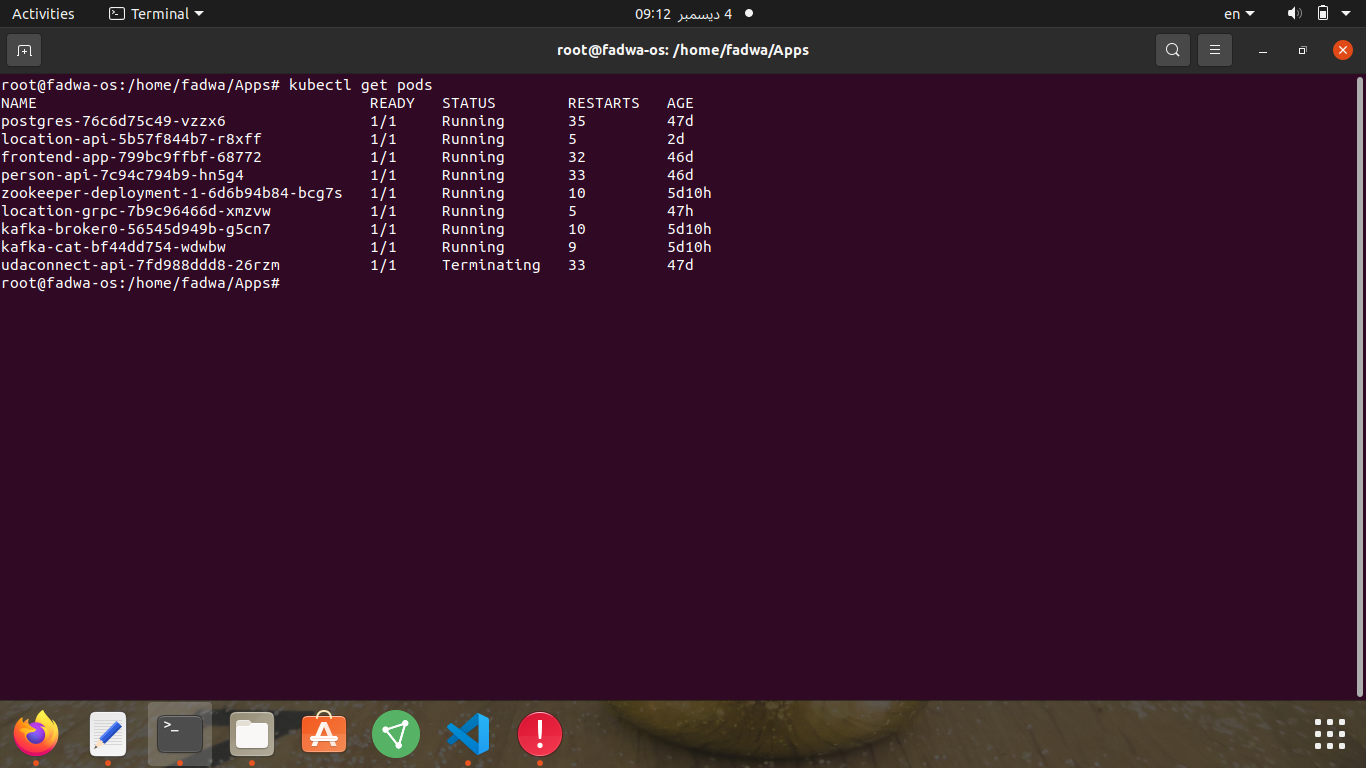
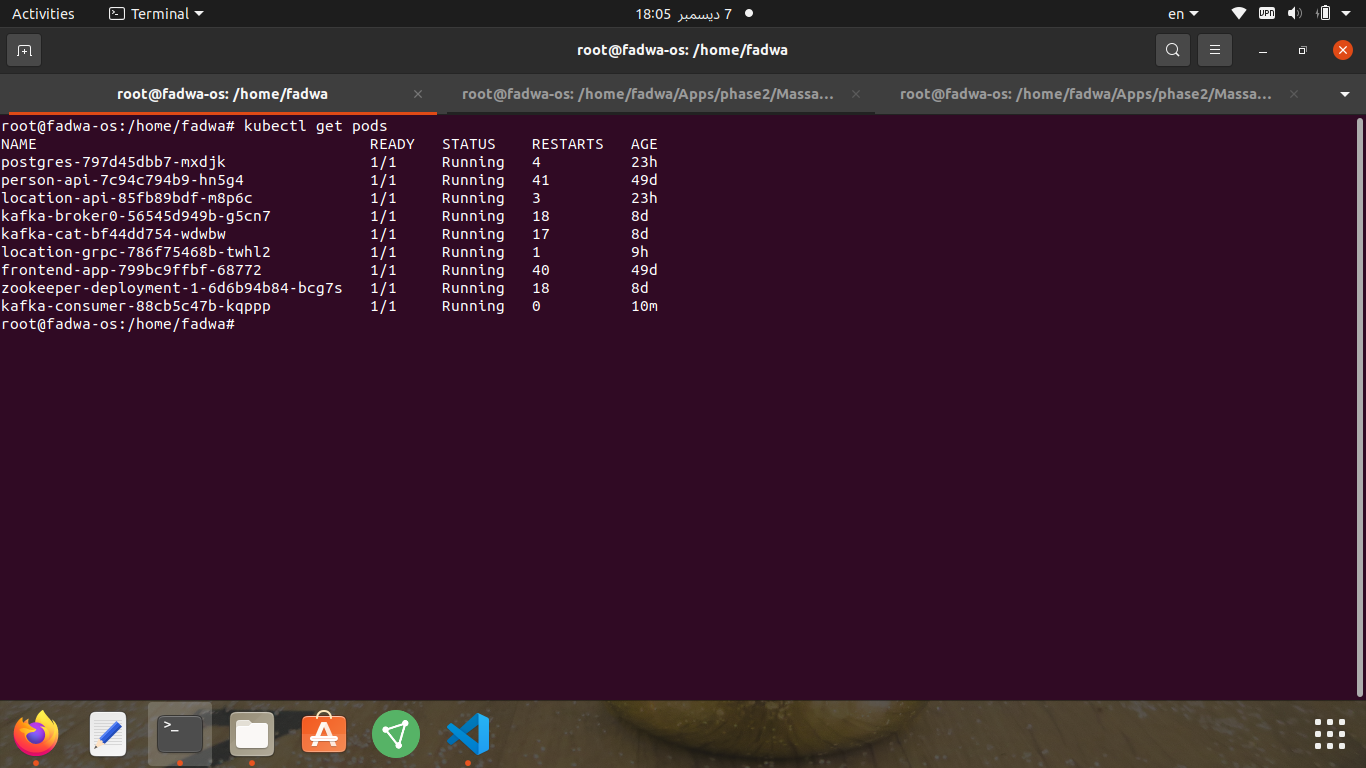
add standalone consumer

diff --git a/modules/kafka-consumer /location_pb2.py b/modules/kafka-consumer /location_pb2.py
@@ -1,0 +1,120 @@
+# -*- coding: utf-8 -*-
+# Generated by the protocol buffer compiler.  DO NOT EDIT!
+# source: location.proto
+"""Generated protocol buffer code."""
+from google.protobuf import descriptor as _descriptor
+from google.protobuf import message as _message
+from google.protobuf import reflection as _reflection
+from google.protobuf import symbol_database as _symbol_database
+# @@protoc_insertion_point(imports)
+
+_sym_db = _symbol_database.Default()
+
+
+from google.protobuf import timestamp_pb2 as google_dot_protobuf_dot_timestamp__pb2
+
+
+DESCRIPTOR = _descriptor.FileDescriptor(
+  name='location.proto',
+  package='',
+  syntax='proto3',
+  serialized_options=None,
+  create_key=_descriptor._internal_create_key,
+  serialized_pb=b'\n\x0elocation.proto\x1a\x1fgoogle/protobuf/timestamp.proto\"|\n\x0fLocationMessage\x12\x11\n\tperson_id\x18\x02 \x01(\x05\x12\x11\n\tlongitude\x18\x03 \x01(\x01\x12\x10\n\x08latitude\x18\x04 \x01(\x01\x12\x31\n\rcreation_time\x18\x05 \x01(\x0b\x32\x1a.google.protobuf.Timestamp2?\n\x0fLocationService\x12,\n\x06\x43reate\x12\x10.LocationMessage\x1a\x10.LocationMessageb\x06proto3'
+  ,
+  dependencies=[google_dot_protobuf_dot_timestamp__pb2.DESCRIPTOR,])
+
+
+
+
+_LOCATIONMESSAGE = _descriptor.Descriptor(
+  name='LocationMessage',
+  full_name='LocationMessage',
+  filename=None,
+  file=DESCRIPTOR,
+  containing_type=None,
+  create_key=_descriptor._internal_create_key,
+  fields=[
+    _descriptor.FieldDescriptor(
+      name='person_id', full_name='LocationMessage.person_id', index=0,
+      number=2, type=5, cpp_type=1, label=1,
+      has_default_value=False, default_value=0,
+      message_type=None, enum_type=None, containing_type=None,
+      is_extension=False, extension_scope=None,
+      serialized_options=None, file=DESCRIPTOR,  create_key=_descriptor._internal_create_key),
+    _descriptor.FieldDescriptor(
+      name='longitude', full_name='LocationMessage.longitude', index=1,
+      number=3, type=1, cpp_type=5, label=1,
+      has_default_value=False, default_value=float(0),
+      message_type=None, enum_type=None, containing_type=None,
+      is_extension=False, extension_scope=None,
+      serialized_options=None, file=DESCRIPTOR,  create_key=_descriptor._internal_create_key),
+    _descriptor.FieldDescriptor(
+      name='latitude', full_name='LocationMessage.latitude', index=2,
+      number=4, type=1, cpp_type=5, label=1,
+      has_default_value=False, default_value=float(0),
+      message_type=None, enum_type=None, containing_type=None,
+      is_extension=False, extension_scope=None,
+      serialized_options=None, file=DESCRIPTOR,  create_key=_descriptor._internal_create_key),
+    _descriptor.FieldDescriptor(
+      name='creation_time', full_name='LocationMessage.creation_time', index=3,
+      number=5, type=11, cpp_type=10, label=1,
+      has_default_value=False, default_value=None,
+      message_type=None, enum_type=None, containing_type=None,
+      is_extension=False, extension_scope=None,
+      serialized_options=None, file=DESCRIPTOR,  create_key=_descriptor._internal_create_key),
+  ],
+  extensions=[
+  ],
+  nested_types=[],
+  enum_types=[
+  ],
+  serialized_options=None,
+  is_extendable=False,
+  syntax='proto3',
+  extension_ranges=[],
+  oneofs=[
+  ],
+  serialized_start=51,
+  serialized_end=175,
+)
+
+_LOCATIONMESSAGE.fields_by_name['creation_time'].message_type = google_dot_protobuf_dot_timestamp__pb2._TIMESTAMP
+DESCRIPTOR.message_types_by_name['LocationMessage'] = _LOCATIONMESSAGE
+_sym_db.RegisterFileDescriptor(DESCRIPTOR)
+
+LocationMessage = _reflection.GeneratedProtocolMessageType('LocationMessage', (_message.Message,), {
+  'DESCRIPTOR' : _LOCATIONMESSAGE,
+  '__module__' : 'location_pb2'
+  # @@protoc_insertion_point(class_scope:LocationMessage)
+  })
+_sym_db.RegisterMessage(LocationMessage)
+
+
+
+_LOCATIONSERVICE = _descriptor.ServiceDescriptor(
+  name='LocationService',
+  full_name='LocationService',
+  file=DESCRIPTOR,
+  index=0,
+  serialized_options=None,
+  create_key=_descriptor._internal_create_key,
+  serialized_start=177,
+  serialized_end=240,
+  methods=[
+  _descriptor.MethodDescriptor(
+    name='Create',
+    full_name='LocationService.Create',
+    index=0,
+    containing_service=None,
+    input_type=_LOCATIONMESSAGE,
+    output_type=_LOCATIONMESSAGE,
+    serialized_options=None,
+    create_key=_descriptor._internal_create_key,
+  ),
+])
+_sym_db.RegisterServiceDescriptor(_LOCATIONSERVICE)
+
+DESCRIPTOR.services_by_name['LocationService'] = _LOCATIONSERVICE
+
+# @@protoc_insertion_point(module_scope)

diff --git a/modules/kafka-consumer /location_pb2_grpc.py b/modules/kafka-consumer /location_pb2_grpc.py
@@ -1,0 +1,66 @@
+# Generated by the gRPC Python protocol compiler plugin. DO NOT EDIT!
+"""Client and server classes corresponding to protobuf-defined services."""
+import grpc
+
+import location_pb2 as location__pb2
+
+
+class LocationServiceStub(object):
+    """Missing associated documentation comment in .proto file."""
+
+    def __init__(self, channel):
+        """Constructor.
+
+        Args:
+            channel: A grpc.Channel.
+        """
+        self.Create = channel.unary_unary(
+                '/LocationService/Create',
+                request_serializer=location__pb2.LocationMessage.SerializeToString,
+                response_deserializer=location__pb2.LocationMessage.FromString,
+                )
+
+
+class LocationServiceServicer(object):
+    """Missing associated documentation comment in .proto file."""
+
+    def Create(self, request, context):
+        """Missing associated documentation comment in .proto file."""
+        context.set_code(grpc.StatusCode.UNIMPLEMENTED)
+        context.set_details('Method not implemented!')
+        raise NotImplementedError('Method not implemented!')
+
+
+def add_LocationServiceServicer_to_server(servicer, server):
+    rpc_method_handlers = {
+            'Create': grpc.unary_unary_rpc_method_handler(
+                    servicer.Create,
+                    request_deserializer=location__pb2.LocationMessage.FromString,
+                    response_serializer=location__pb2.LocationMessage.SerializeToString,
+            ),
+    }
+    generic_handler = grpc.method_handlers_generic_handler(
+            'LocationService', rpc_method_handlers)
+    server.add_generic_rpc_handlers((generic_handler,))
+
+
+ # This class is part of an EXPERIMENTAL API.
+class LocationService(object):
+    """Missing associated documentation comment in .proto file."""
+
+    @staticmethod
+    def Create(request,
+            target,
+            options=(),
+            channel_credentials=None,
+            call_credentials=None,
+            insecure=False,
+            compression=None,
+            wait_for_ready=None,
+            timeout=None,
+            metadata=None):
+        return grpc.experimental.unary_unary(request, target, '/LocationService/Create',
+            location__pb2.LocationMessage.SerializeToString,
+            location__pb2.LocationMessage.FromString,
+            options, channel_credentials,
+            insecure, call_credentials, compression, wait_for_ready, timeout, metadata)

diff --git a/modules/kafka-consumer /server.py b/modules/kafka-consumer /server.py
@@ -1,0 +1,62 @@
+
+import logging
+import json
+
+from datetime import datetime
+from concurrent import futures
+from kafka import KafkaConsumer
+from google.protobuf.json_format import Parse
+
+
+import grpc
+import urllib3
+import location_pb2
+import location_pb2_grpc
+
+from google.protobuf.timestamp_pb2 import Timestamp
+
+
+class LocationServicer(location_pb2_grpc.LocationServiceServicer):
+    def Create(self, location, context):
+        logging.info("create-location-grpc")
+
+        # use urllib3 to send new location to location service to save it into database
+        http = urllib3.PoolManager()
+        url = 'http://location-api:5000/api/locations'
+
+        # extract dateTime from timestamp 
+        timestamp : Timestamp = location.creation_time
+        creation_time = datetime.fromtimestamp(timestamp.seconds + timestamp.nanos/1e9)
+
+        request_payload = {
+            "person_id": location.person_id,
+            "longitude": str(location.longitude),
+            "latitude": str(location.longitude),
+            "creation_time": str(creation_time)
+            }
+
+        logging.info(f"request {request_payload}")
+
+        req = http.request('POST', url, body=json.dumps(request_payload), headers={'Content-Type': 'application/json'})
+        logging.info(f"request  : {req.data}")
+
+        responce = {
+            "person_id": int(location.person_id),
+            "longitude": location.longitude,
+            "latitude": location.latitude,
+            "creation_time": timestamp
+        }
+        return location_pb2.LocationMessage(**responce)
+
+def serve () :
+    server = grpc.server(futures.ThreadPoolExecutor(max_workers=2))
+    location_pb2_grpc.add_LocationServiceServicer_to_server(LocationServicer(), server)
+    logging.info( 'gRPC server starting on port 50051.')
+    server.add_insecure_port("[::]:50051")
+    server.start()
+    server.wait_for_termination()
+
+if __name__ == '__main__':
+    logging.basicConfig(level=logging.INFO)
+    logging.info("main")
+    serve()

diff --git a/modules/kafka-consumer /consumer.py b/modules/kafka-consumer /consumer.py
@@ -1,0 +1,40 @@
+
+import logging
+
+from kafka import KafkaConsumer
+from google.protobuf.json_format import Parse
+
+import grpc
+import location_pb2_grpc
+import location_pb2
+
+
+def run():
+    logging.info("run consumer")
+
+    # setup for consumer
+    consumer = KafkaConsumer(
+    'locations',
+    bootstrap_servers=['kafka-service:9092'],
+    auto_offset_reset='earliest',
+    enable_auto_commit=True,
+    group_id='my-group'
+    )
+
+    # get data from consumer
+    location = {}
+    for message in consumer:
+        message = message.value.decode('utf-8')
+        location=location_pb2.LocationMessage()
+        Parse(str(message), location)
+
+        logging.info(location)
+        with grpc.insecure_channel('location-grpc:50051') as channel:
+            stub = location_pb2_grpc.LocationServiceStub(channel)
+            response = stub.Create(location)
+            logging.info(response)
+
+if __name__ == '__main__':
+    logging.basicConfig(level=logging.INFO)
+    logging.info("consumer")
+    run()

diff --git a/modules/kafka-consumer /wsgi.py b/modules/kafka-consumer /wsgi.py
@@ -1,0 +1,7 @@
+import os
+
+from app import create_app
+
+app = create_app(os.getenv("FLASK_ENV") or "test")
+if __name__ == "__main__":
+    app.run(debug=True)
